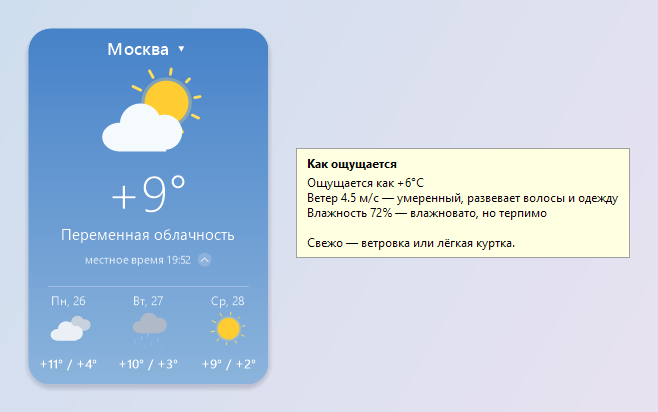
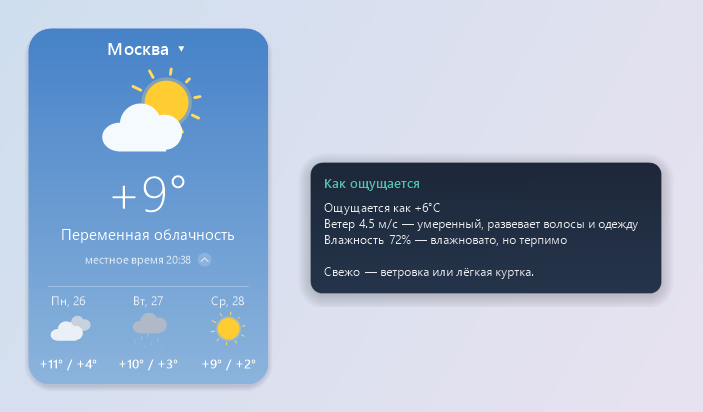
Подсказки в стиле виджета
- TipWindow — окно с попиксельной прозрачностью: тёмная панель со сглаженными
  углами и тенью, бирюзовый заголовок, белый текст; длинные строки переносятся
  (ширина текста до 340 px). Окно пропускает мышь и не получает фокус.
- Отрисовка тёмной панели вынесена в Theme.DrawPanel — общая для подсказки
  и панели выбора города; там же Theme.Accent и Theme.PanelShadow.
- Тест отрисовки подсказки (283 проверки), обновлены картинки README, CHANGELOG.

diff --git a/src/UI/TipWindow.cs b/src/UI/TipWindow.cs
@@ -1,37 +1,43 @@
 using System;
 using System.Drawing;
+using System.Drawing.Drawing2D;
 using System.Windows.Forms;
 
 namespace WeatherWidget
 {
-    // Всплывающая подсказка в стиле системной. Своя, потому что стандартный ToolTip
-    // WinForms не показывается, пока окно виджета не активно (а виджет обычно не активен).
+    // Всплывающая подсказка в стиле виджета: тёмная панель со сглаженными углами и тенью,
+    // бирюзовый заголовок, белый текст. Своя, а не ToolTip: стандартная подсказка WinForms
+    // не показывается, пока окно виджета не активно (а виджет обычно не активен).
+    // Окно никогда не получает фокус и пропускает мышь насквозь.
     sealed class TipWindow : Form
     {
-        const int Pad = 8;
+        const int Shadow = Theme.PanelShadow;
+        const int Pad = 12, Gap = 6, Radius = 12, MaxTextW = 340;
+
+        readonly LayeredSurface surface = new LayeredSurface();
+        readonly Font fTitle = new Font("Segoe UI Semibold", 13, GraphicsUnit.Pixel);
+        readonly Font fBody = new Font("Segoe UI", 12, GraphicsUnit.Pixel);
         string title = "", body = "";
-        readonly Font fTitle = new Font("Segoe UI", 9f, FontStyle.Bold);
-        readonly Font fBody = new Font("Segoe UI", 9f);
+        SizeF titleSize, bodySize;
+        bool shown;
 
         public TipWindow()
         {
             FormBorderStyle = FormBorderStyle.None;
             ShowInTaskbar = false;
             StartPosition = FormStartPosition.Manual;
-            TopMost = true;
-            BackColor = SystemColors.Info;
-            SetStyle(ControlStyles.AllPaintingInWmPaint | ControlStyles.UserPaint | ControlStyles.OptimizedDoubleBuffer, true);
+            AutoScaleMode = AutoScaleMode.None;
         }
 
-        protected override bool ShowWithoutActivation { get { return true; } }   // не забирать фокус
+        protected override bool ShowWithoutActivation { get { return true; } }
 
         protected override CreateParams CreateParams
         {
             get
             {
                 CreateParams cp = base.CreateParams;
-                cp.ExStyle |= NativeMethods.WS_EX_TOOLWINDOW | NativeMethods.WS_EX_TOPMOST | NativeMethods.WS_EX_NOACTIVATE;
-                cp.ClassStyle |= NativeMethods.CS_DROPSHADOW;   // тень, как у системной подсказки
+                cp.ExStyle |= NativeMethods.WS_EX_LAYERED | NativeMethods.WS_EX_TRANSPARENT | NativeMethods.WS_EX_TOOLWINDOW |
+                              NativeMethods.WS_EX_TOPMOST | NativeMethods.WS_EX_NOACTIVATE;
                 return cp;
             }
         }
@@ -44,15 +50,47 @@ namespace WeatherWidget
             base.WndProc(ref m);
         }
 
-        bool shown;
-
-        // Показ и скрытие — напрямую через Windows, а не Form.Show(): WinForms при показе формы
-        // передаёт ей фокус, и открытая панель выбора города теряла его и закрывалась.
-        void ShowNoActivate()
+        protected override void Dispose(bool disposing)
         {
+            if (disposing) { surface.Dispose(); fTitle.Dispose(); fBody.Dispose(); }
+            base.Dispose(disposing);
+        }
+
+        // Размер окна под текст (вместе с полем под тень)
+        Size SetText(string t, string b)
+        {
+            title = t ?? "";
+            body = b ?? "";
+            using (Bitmap tmp = new Bitmap(1, 1))
+            using (Graphics g = Graphics.FromImage(tmp))
+            {
+                g.TextRenderingHint = System.Drawing.Text.TextRenderingHint.AntiAliasGridFit;
+                titleSize = title == "" ? SizeF.Empty : g.MeasureString(title, fTitle, MaxTextW);
+                bodySize = g.MeasureString(body, fBody, MaxTextW);   // длинные строки переносятся
+            }
+            int w = (int)Math.Ceiling(Math.Max(titleSize.Width, bodySize.Width)) + 2 * Pad;
+            int h = (int)Math.Ceiling(bodySize.Height + (title == "" ? 0 : titleSize.Height + Gap)) + 2 * Pad;
+            return new Size(w + 2 * Shadow, h + 2 * Shadow);
+        }
+
+        // Показать подсказку так, чтобы её угол был у точки экрана (обычно чуть ниже и правее курсора).
+        // Показ — напрямую через Windows, а не Form.Show(): WinForms при показе передаёт форме фокус,
+        // и открытая панель выбора города теряла его и закрывалась.
+        public void ShowAt(string t, string b, Point at)
+        {
+            Size size = SetText(t, b);
+            int panelW = size.Width - 2 * Shadow, panelH = size.Height - 2 * Shadow;
+
+            // не вылезать за край экрана; не хватает места снизу — показать над курсором
+            Rectangle wa = Screen.FromPoint(at).WorkingArea;
+            int px = Math.Max(wa.Left, Math.Min(at.X, wa.Right - panelW));
+            int py = at.Y + panelH <= wa.Bottom ? at.Y : at.Y - panelH - 30;
+            py = Math.Max(wa.Top, py);
+            Bounds = new Rectangle(px - Shadow, py - Shadow, size.Width, size.Height);
+
+            surface.Present(Handle, Width, Height, 255, Render);
             NativeMethods.SetWindowPos(Handle, NativeMethods.HWND_TOPMOST, Left, Top, Width, Height, NativeMethods.SWP_NOACTIVATE);
             NativeMethods.ShowWindow(Handle, NativeMethods.SW_SHOWNOACTIVATE);
-            Invalidate();
             shown = true;
         }
 
@@ -63,51 +101,31 @@ namespace WeatherWidget
             shown = false;
         }
 
-        Size SetText(string t, string b)
-        {
-            title = t;
-            body = b;
-            Size ts = title == "" ? Size.Empty : TextRenderer.MeasureText(title, fTitle);
-            Size bs = TextRenderer.MeasureText(body, fBody);
-            return new Size(Math.Max(ts.Width, bs.Width) + Pad * 2, bs.Height + Pad * 2 + (title == "" ? 0 : ts.Height + 4));
-        }
-
-        // Картинка подсказки без показа окна — для README
+        // Картинка подсказки без показа окна — для README и тестов
         internal Bitmap RenderPreview(string t, string b)
         {
             Size = SetText(t, b);
-            Bitmap bmp = new Bitmap(Width, Height);
-            DrawToBitmap(bmp, new Rectangle(0, 0, Width, Height));
+            Bitmap bmp = new Bitmap(Width, Height, System.Drawing.Imaging.PixelFormat.Format32bppPArgb);
+            using (Graphics g = Graphics.FromImage(bmp)) Render(g);
             return bmp;
         }
 
-        // Показать подсказку у точки экрана (обычно чуть ниже и правее курсора)
-        public void ShowAt(string t, string b, Point at)
+        void Render(Graphics g)
         {
-            Size size = SetText(t, b);
-            int w = size.Width, h = size.Height;
+            g.Clear(Color.Transparent);
+            g.SmoothingMode = SmoothingMode.AntiAlias;
+            g.TextRenderingHint = System.Drawing.Text.TextRenderingHint.AntiAliasGridFit;
+            Theme.DrawPanel(g, new RectangleF(Shadow, Shadow, Width - 2 * Shadow, Height - 2 * Shadow), Radius);
 
-            // не вылезать за край экрана
-            Rectangle wa = Screen.FromPoint(at).WorkingArea;
-            int x = Math.Max(wa.Left, Math.Min(at.X, wa.Right - w));
-            int y = at.Y + h <= wa.Bottom ? at.Y : at.Y - h - 30;
-            y = Math.Max(wa.Top, y);
-            Bounds = new Rectangle(x, y, w, h);
-            ShowNoActivate();
-        }
-
-        protected override void OnPaint(PaintEventArgs e)
-        {
-            Graphics g = e.Graphics;
-            using (Pen p = new Pen(SystemColors.ControlDark))
-                g.DrawRectangle(p, 0, 0, Width - 1, Height - 1);
-            int y = Pad;
+            float x = Shadow + Pad, y = Shadow + Pad;
             if (title != "")
             {
-                TextRenderer.DrawText(g, title, fTitle, new Point(Pad, y), SystemColors.InfoText);
-                y += TextRenderer.MeasureText(title, fTitle).Height + 4;
+                using (SolidBrush accent = new SolidBrush(Theme.Accent))
+                    g.DrawString(title, fTitle, accent, new RectangleF(x, y, MaxTextW, titleSize.Height + 1));
+                y += titleSize.Height + Gap;
             }
-            TextRenderer.DrawText(g, body, fBody, new Point(Pad, y), SystemColors.InfoText);
+            using (SolidBrush text = new SolidBrush(Color.FromArgb(232, 255, 255, 255)))
+                g.DrawString(body, fBody, text, new RectangleF(x, y, MaxTextW, bodySize.Height + 1));
         }
     }
 }

diff --git a/src/UI/CityPicker.cs b/src/UI/CityPicker.cs
@@ -13,10 +13,9 @@ namespace WeatherWidget
     // стрелки выбирают строку, Enter — выбрать, Esc или клик мимо — закрыть.
     sealed class CityPicker : Form
     {
-        const int Shadow = 14;                 // поле вокруг панели под тень
+        const int Shadow = Theme.PanelShadow;  // поле вокруг панели под тень
         const int PanelW = 280, Pad = 10, SearchH = 38, RowH = 46, StatusH = 58, Radius = 14;
         const int MaxQuery = 60;
-        static readonly Color Accent = Color.FromArgb(79, 195, 176);
 
         sealed class Row
         {
@@ -356,22 +355,7 @@ namespace WeatherWidget
             int panelH = Height - 2 * Shadow;
             RectangleF panel = new RectangleF(Shadow, Shadow, PanelW, panelH);
 
-            // мягкая тень
-            for (int i = Shadow; i >= 1; i -= 2)
-                using (GraphicsPath p = Theme.RoundRect(new RectangleF(panel.X - i + 2, panel.Y - i + 5, panel.Width + 2 * i - 4, panel.Height + 2 * i - 4), Radius + i))
-                using (SolidBrush b = new SolidBrush(Color.FromArgb(7, 0, 0, 0)))
-                    g.FillPath(b, p);
-
-            // панель
-            using (GraphicsPath p = Theme.RoundRect(panel, Radius))
-            {
-                using (LinearGradientBrush bg = new LinearGradientBrush(new RectangleF(panel.X, panel.Y - 1, panel.Width, panel.Height + 2),
-                    Color.FromArgb(250, 26, 36, 54), Color.FromArgb(250, 34, 49, 72), 90f))
-                    g.FillPath(bg, p);
-                using (Pen border = new Pen(Color.FromArgb(34, 255, 255, 255)))
-                    g.DrawPath(border, p);
-            }
-
+            Theme.DrawPanel(g, panel, Radius);
             DrawSearch(g);
 
             float sepY = ListTop - Pad / 2f - 1;
@@ -433,7 +417,7 @@ namespace WeatherWidget
                     g.FillPath(b, p);
 
             if (r.Current)
-                using (SolidBrush dot = new SolidBrush(Accent))
+                using (SolidBrush dot = new SolidBrush(Theme.Accent))
                     g.FillEllipse(dot, rc.X + 10, rc.Y + rc.Height / 2f - 4, 8, 8);
 
             float textX = rc.X + 26, textW = rc.Width - 26 - (r.Removable ? 34 : 8);

diff --git a/tests/Tests.cs b/tests/Tests.cs
@@ -46,6 +46,7 @@ namespace WeatherWidget.Tests
             Run("Окно: размер при запуске с разным масштабом", WindowSizeOnStart);
             Run("Первый запуск: город не выбран", FirstStart);
             Run("Панель выбора города", Picker);
+            Run("Подсказка в стиле виджета", Tooltip);
 
             Console.WriteLine();
             Console.WriteLine(failed == 0 ? "ВСЕ ТЕСТЫ ПРОШЛИ: " + passed + " проверок" : "ОШИБКИ: " + failed + " из " + (passed + failed));
@@ -506,6 +507,22 @@ namespace WeatherWidget.Tests
                     Check(b.GetPixel(2, 2).A == 0 && b.GetPixel(b.Width / 2, b.Height / 2).A > 200, "вокруг прозрачно, панель непрозрачная");
             }
             Directory.Delete(Path.GetDirectoryName(path), true);
+        }
+
+        static void Tooltip()
+        {
+            using (TipWindow tip = new TipWindow())
+            {
+                int shortW, longW, longH, shortH;
+                using (Bitmap b = tip.RenderPreview("", "Страна: Россия")) { shortW = b.Width; shortH = b.Height; }
+                string longText = "Очень длинная строка подсказки, которая не должна растягивать окно на пол-экрана, а переносится";
+                using (Bitmap b = tip.RenderPreview("Как ощущается", longText)) { longW = b.Width; longH = b.Height; }
+                Check(longW <= 340 + 2 * 12 + 2 * Theme.PanelShadow + 2, "длинный текст переносится, ширина ограничена (" + longW + ")");
+                Check(longH > shortH, "с заголовком и переносом подсказка выше");
+                using (Bitmap b = tip.RenderPreview("", "Страна: Россия"))
+                    Check(b.GetPixel(1, 1).A == 0 && b.GetPixel(b.Width / 2, b.Height / 2).A > 200, "вокруг прозрачно, панель непрозрачная");
+                Check(shortW < longW, "короткая подсказка — узкая");
+            }
         }
 
         static void SettingsBroken()

diff --git a/src/UI/Theme.cs b/src/UI/Theme.cs
@@ -6,6 +6,28 @@ namespace WeatherWidget
     // Цвета фона и вспомогательная геометрия
     static class Theme
     {
+        // Всплывающие панели (выбор города, подсказки): тёмный фон, бирюзовый акцент
+        public static readonly Color Accent = Color.FromArgb(79, 195, 176);
+        public const int PanelShadow = 14;   // поле вокруг панели под тень
+
+        // Тёмная панель со скруглёнными углами, мягкой тенью и тонкой рамкой
+        public static void DrawPanel(Graphics g, RectangleF panel, float radius)
+        {
+            for (int i = PanelShadow; i >= 1; i -= 2)
+                using (GraphicsPath p = RoundRect(new RectangleF(panel.X - i + 2, panel.Y - i + 5, panel.Width + 2 * i - 4, panel.Height + 2 * i - 4), radius + i))
+                using (SolidBrush b = new SolidBrush(Color.FromArgb(7, 0, 0, 0)))
+                    g.FillPath(b, p);
+
+            using (GraphicsPath p = RoundRect(panel, radius))
+            {
+                using (LinearGradientBrush bg = new LinearGradientBrush(new RectangleF(panel.X, panel.Y - 1, panel.Width, panel.Height + 2),
+                    Color.FromArgb(250, 26, 36, 54), Color.FromArgb(250, 34, 49, 72), 90f))
+                    g.FillPath(bg, p);
+                using (Pen border = new Pen(Color.FromArgb(34, 255, 255, 255)))
+                    g.DrawPath(border, p);
+            }
+        }
+
         // Градиент фона карточки по погоде; ночью темнее
         public static void BgColors(WeatherData d, out Color top, out Color bottom)
         {

diff --git a/src/UI/NativeMethods.cs b/src/UI/NativeMethods.cs
@@ -10,7 +10,7 @@ namespace WeatherWidget
         public const int HTTRANSPARENT = -1, HTCLIENT = 1, HTCAPTION = 2;
         public const int HTTOPLEFT = 13, HTTOPRIGHT = 14, HTBOTTOMLEFT = 16, HTBOTTOMRIGHT = 17;
         public const int WMSZ_LEFT = 1, WMSZ_TOP = 3, WMSZ_TOPLEFT = 4, WMSZ_TOPRIGHT = 5, WMSZ_BOTTOMLEFT = 7;
-        public const int WS_EX_TOPMOST = 0x8, WS_EX_TOOLWINDOW = 0x80, WS_EX_LAYERED = 0x80000, WS_EX_NOACTIVATE = 0x08000000;
+        public const int WS_EX_TOPMOST = 0x8, WS_EX_TRANSPARENT = 0x20, WS_EX_TOOLWINDOW = 0x80, WS_EX_LAYERED = 0x80000, WS_EX_NOACTIVATE = 0x08000000;
         public const int CS_DROPSHADOW = 0x20000;
         public const int EM_SETCUEBANNER = 0x1501;
         public const int ULW_ALPHA = 2;

diff --git a/CHANGELOG.md b/CHANGELOG.md
@@ -13,7 +13,10 @@
   крестик для удаления при наведении, выбор стрелками и Enter, Esc — закрыть.
   Повторный клик по названию города закрывает панель (раньше меню открывалось снова).
 - В меню правой кнопки вместо подменю «Город» — пункт «Выбрать город…».
-- Тесты: первый запуск без настроек, отрисовка панели выбора города (279 проверок).
+- Подсказки в том же стиле: тёмная панель со сглаженными углами и тенью, бирюзовый заголовок,
+  длинные строки переносятся. Подсказки никогда не забирают фокус (из-за этого панель выбора города
+  закрывалась сразу после открытия) и не показываются, пока панель открыта.
+- Тесты: первый запуск без настроек, отрисовка панели выбора города и подсказки.
 
 ## 1.1.0 — 2026-10-25
 
